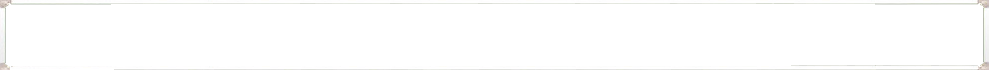
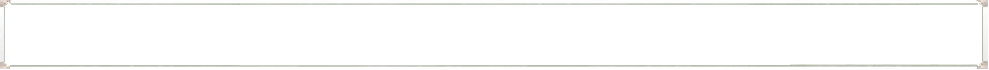
修改了link显示效果

diff --git a/TW/WebContent/css/style.css b/TW/WebContent/css/style.css
@@ -455,12 +455,19 @@ text-shadow:0 2px 3px rgba(0, 0, 0, 0.3);
 }
 
 #linker {
-	width: 869px;
-	height: 50px;
+	width: 989px;
+	height: 70px;
 	float: left;
-	padding-left: 119px;
-	margin: 30px 0 10px 0;
+	padding:9px 10px 9px 0px;
+	margin: 10px 0 10px 0;
+	
+	background:url(/TW/linkImage/linkbg.png) no-repeat;
 }
+#linker table td {
+	float:left;
+	margin-left:6px;
+	border: 1px solid #e0e0e0;
+	}
 
 #copyright {
 	background:#f8f8f8;
